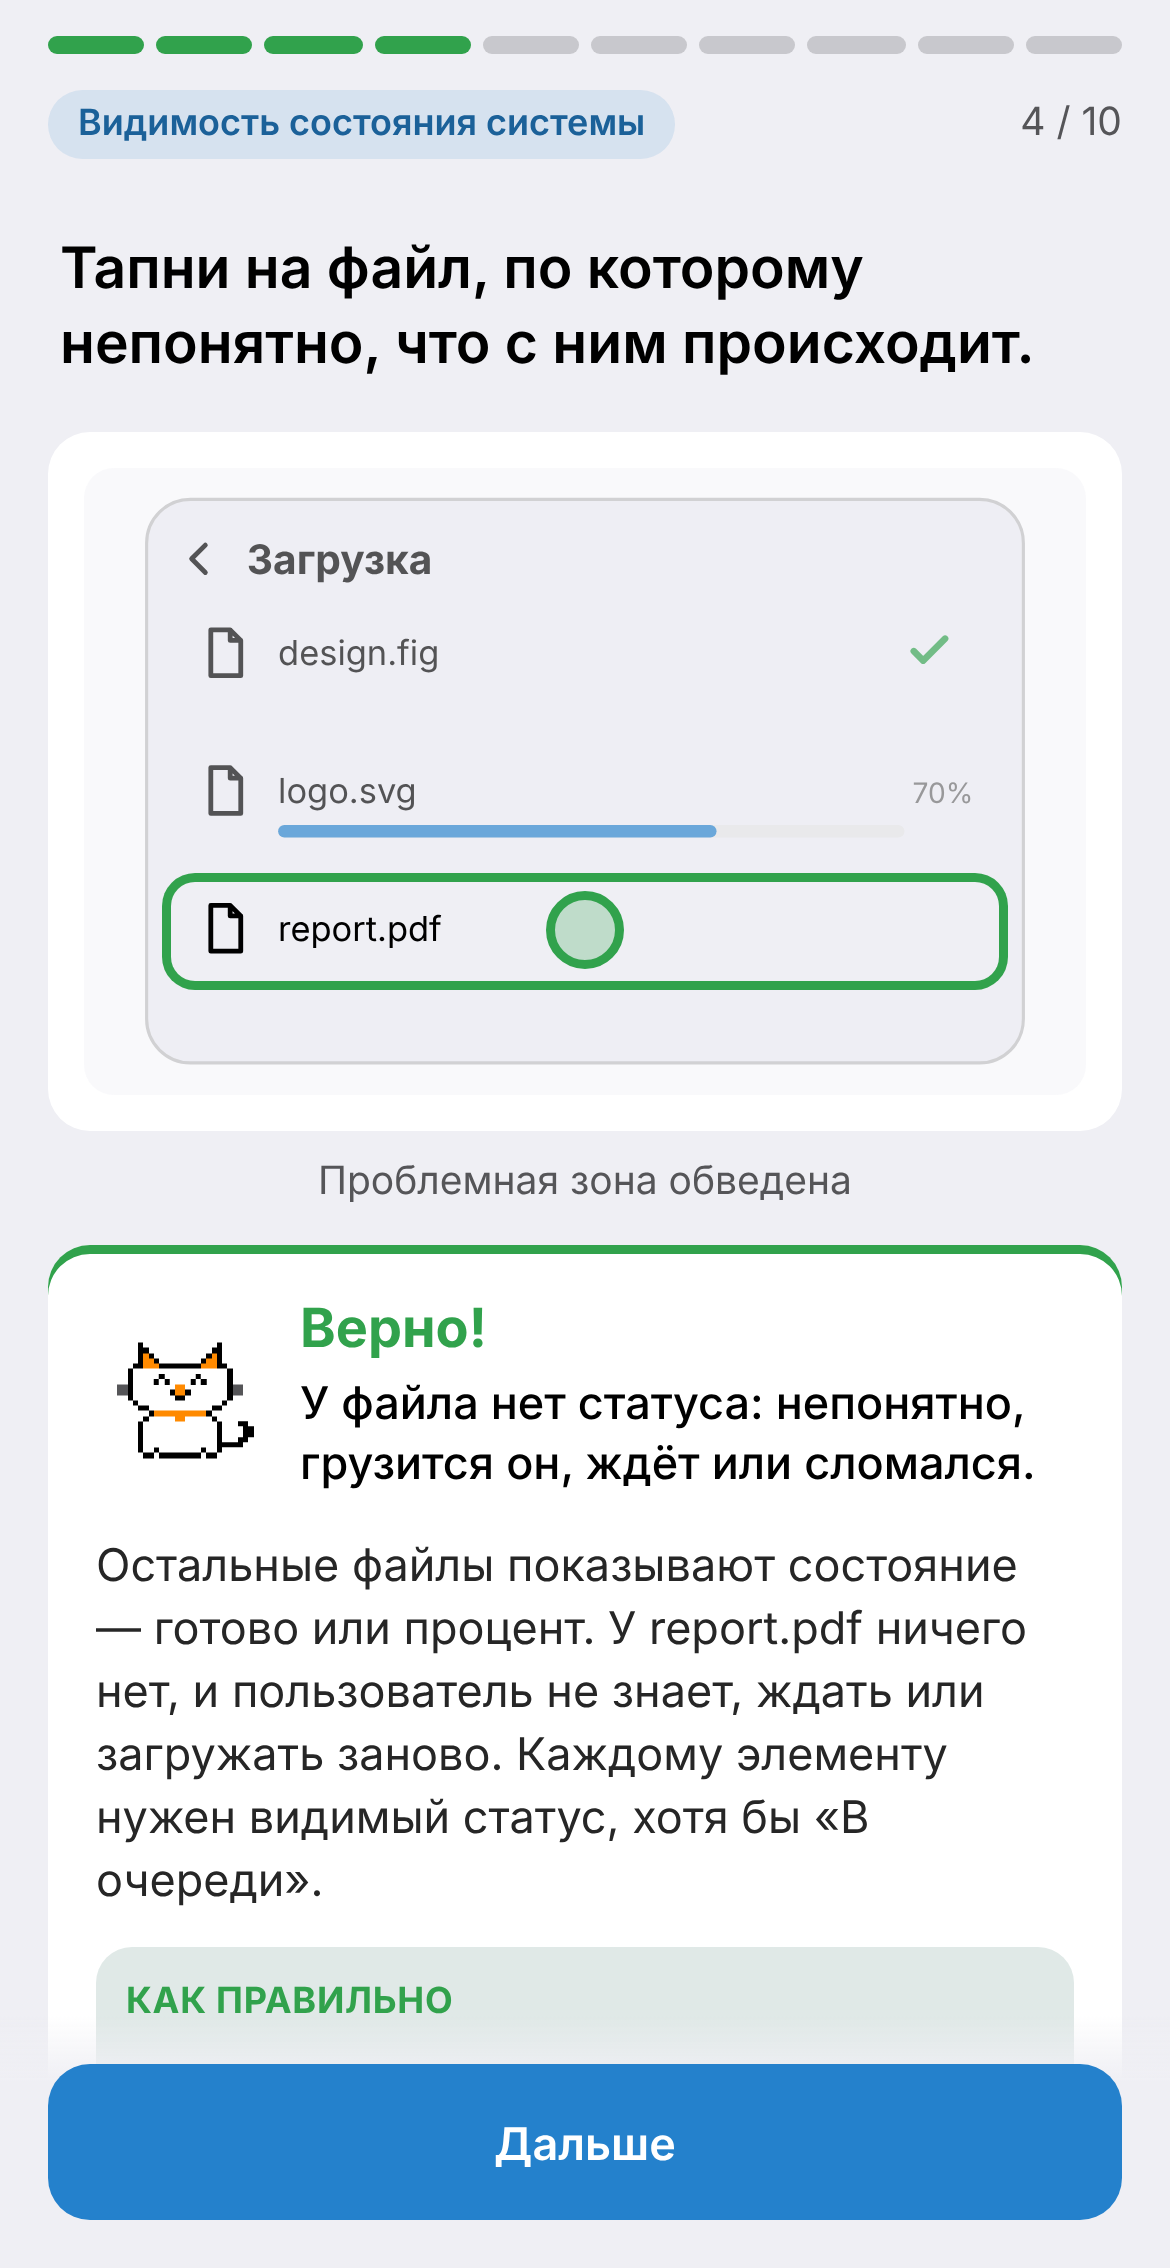
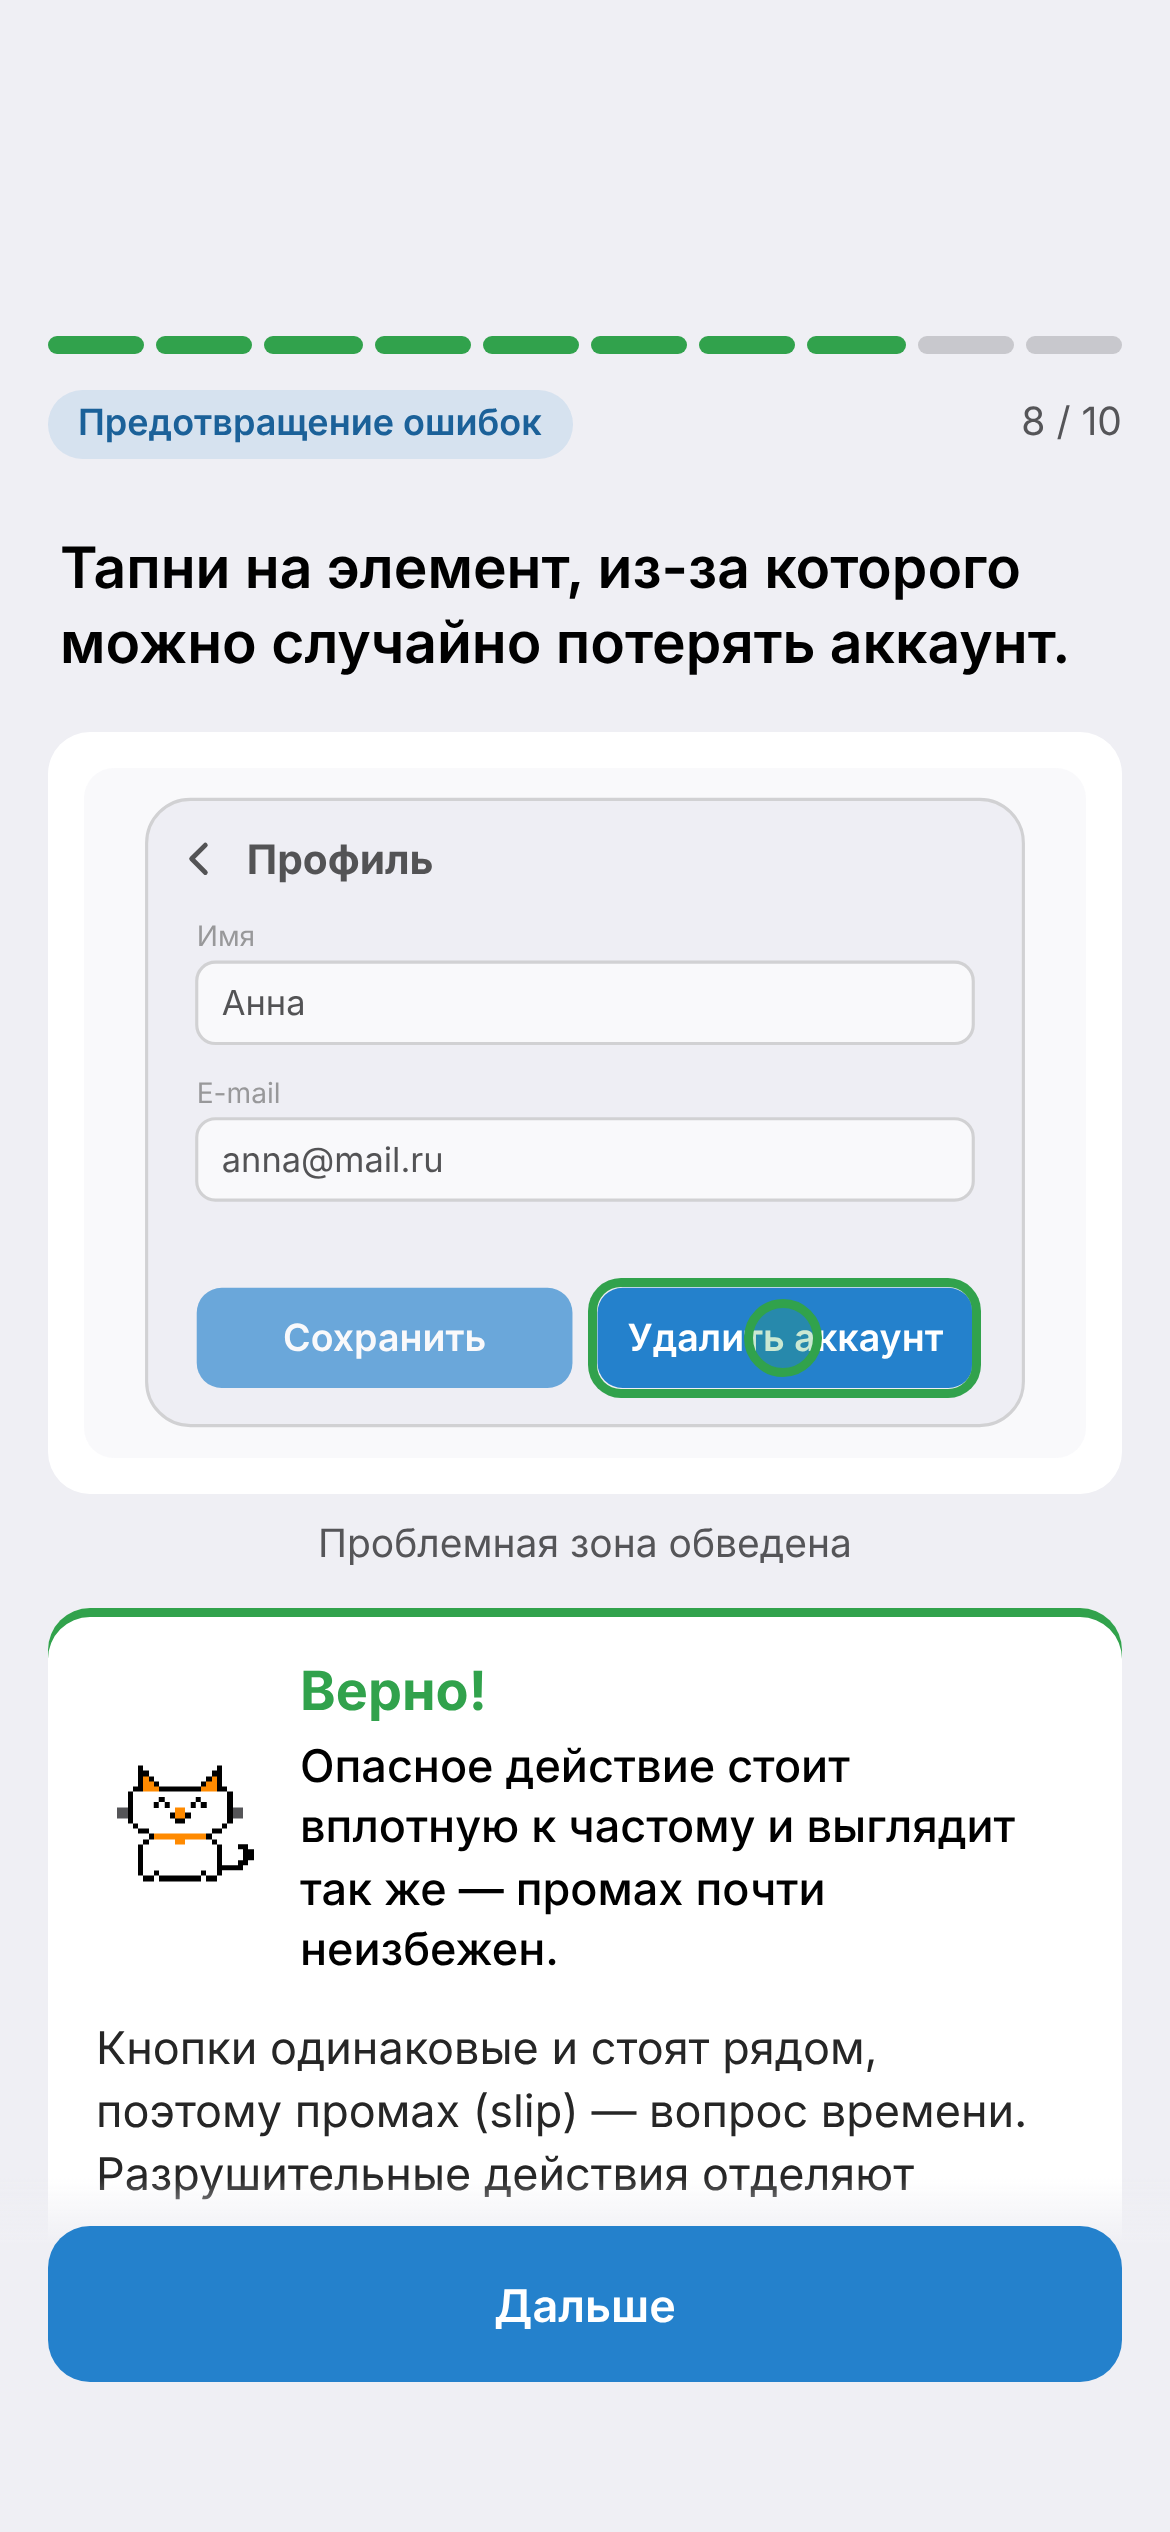
Анонс: плавающие кнопки Telegram на мокапе, экраны сняты с отступами полноэкранного режима
Claude-Session: https://claude.ai/code/session_01FvLuPphiuHiv3FLLXi82M7

Changed region(s): [[0.0308, 0.216, 0.9846, 0.9877], [0.0308, 0.0, 0.9538, 0.1852], [0.1231, 0.463, 0.1538, 0.4938]]

diff --git a/web/src/post/Post.tsx b/web/src/post/Post.tsx
@@ -9,10 +9,11 @@ import themes from './themes.png';
 const BOT_URL = 't.me/uxuitrainer_bot';
 
 /**
- * iPhone 390×844 pt: статус-бар 54 pt, скриншот 390×756 (снят с этой высотой), индикатор Home 34 pt.
- * Так интерфейс не заходит под скругления рамки и Dynamic Island.
+ * iPhone 390×844 pt в полноэкранном режиме Telegram. Скриншоты сняты с отступами
+ * --tg-safe-area-inset-top: 54px, --tg-content-safe-area-inset-top: 46px, --tg-safe-area-inset-bottom: 34px,
+ * поэтому интерфейс сам стоит ниже статус-бара и плавающих кнопок Telegram, которые рисуются поверх.
  */
-const Phone = ({ src, className }: { src: string; className: string }) => (
+const Phone = ({ src, className, back = false }: { src: string; className: string; back?: boolean }) => (
   <div className={`mock ${className}`}>
     <div className="mock__screen">
       <div className="mock__status">
@@ -28,6 +29,26 @@ const Phone = ({ src, className }: { src: string; className: string }) => (
           <rect x="46.5" y="2.5" width="17" height="7" rx="1.6" />
           <path d="M66.6 4.2v3.6a1.9 1.9 0 0 0 0-3.6z" opacity="0.4" />
         </svg>
+      </div>
+      <div className="mock__tg">
+        <span className="mock__pill">
+          {back && (
+            <svg viewBox="0 0 8 14" aria-hidden>
+              <path d="M7 1 1 7l6 6" />
+            </svg>
+          )}
+          {back ? 'Назад' : 'Закрыть'}
+        </span>
+        <span className="mock__pill mock__pill--icons">
+          <svg viewBox="0 0 14 8" aria-hidden>
+            <path d="m1 1 6 6 6-6" />
+          </svg>
+          <svg viewBox="0 0 18 4" aria-hidden>
+            <circle cx="2" cy="2" r="2" />
+            <circle cx="9" cy="2" r="2" />
+            <circle cx="16" cy="2" r="2" />
+          </svg>
+        </span>
       </div>
       <img src={src} alt="" />
       <div className="mock__home" />
@@ -59,7 +80,7 @@ export function Post() {
       </div>
       <div className="post__art">
         <Phone src={themes} className="post__phone post__phone--back" />
-        <Phone src={hotspot} className="post__phone post__phone--front" />
+        <Phone src={hotspot} className="post__phone post__phone--front" back />
         <div className="post__cat">
           <Cat mood="happy" size={200} />
         </div>

diff --git a/web/src/post/post.css b/web/src/post/post.css
@@ -91,8 +91,6 @@ body {
   border-radius: calc(55 * var(--u));
   overflow: hidden;
   background: var(--bg);
-  display: flex;
-  flex-direction: column;
 }
 
 .mock__screen img {
@@ -101,14 +99,65 @@ body {
 }
 
 .mock__status {
-  position: relative;
-  flex: none;
+  position: absolute;
+  inset: 0 0 auto;
+  z-index: 1;
   height: calc(54 * var(--u));
   display: flex;
   align-items: center;
   justify-content: space-between;
   padding: 0 calc(30 * var(--u)) 0 calc(44 * var(--u));
   color: var(--text);
+}
+
+/* Плавающие кнопки Telegram в зоне --tg-content-safe-area-inset-top (54–100 pt) */
+.mock__tg {
+  position: absolute;
+  top: calc(62 * var(--u));
+  left: calc(16 * var(--u));
+  right: calc(16 * var(--u));
+  z-index: 1;
+  display: flex;
+  justify-content: space-between;
+}
+
+.mock__pill {
+  height: calc(30 * var(--u));
+  padding: 0 calc(13 * var(--u));
+  display: flex;
+  align-items: center;
+  gap: calc(6 * var(--u));
+  border-radius: 999px;
+  background: rgba(60, 60, 67, 0.36);
+  backdrop-filter: blur(12px);
+  color: #fff;
+  font-family: -apple-system, 'Inter', 'Manrope', sans-serif;
+  font-size: calc(15 * var(--u));
+  font-weight: 600;
+}
+
+.mock__pill svg {
+  height: calc(13 * var(--u));
+  fill: none;
+  stroke: currentColor;
+  stroke-width: 2;
+  stroke-linecap: round;
+  stroke-linejoin: round;
+}
+
+.mock__pill--icons {
+  gap: calc(16 * var(--u));
+  padding: 0 calc(14 * var(--u));
+}
+
+.mock__pill--icons svg:first-child {
+  height: calc(8 * var(--u));
+}
+
+.mock__pill--icons svg:last-child {
+  height: calc(4 * var(--u));
+  fill: currentColor;
+  stroke: none;
 }
 
 .mock__time {
